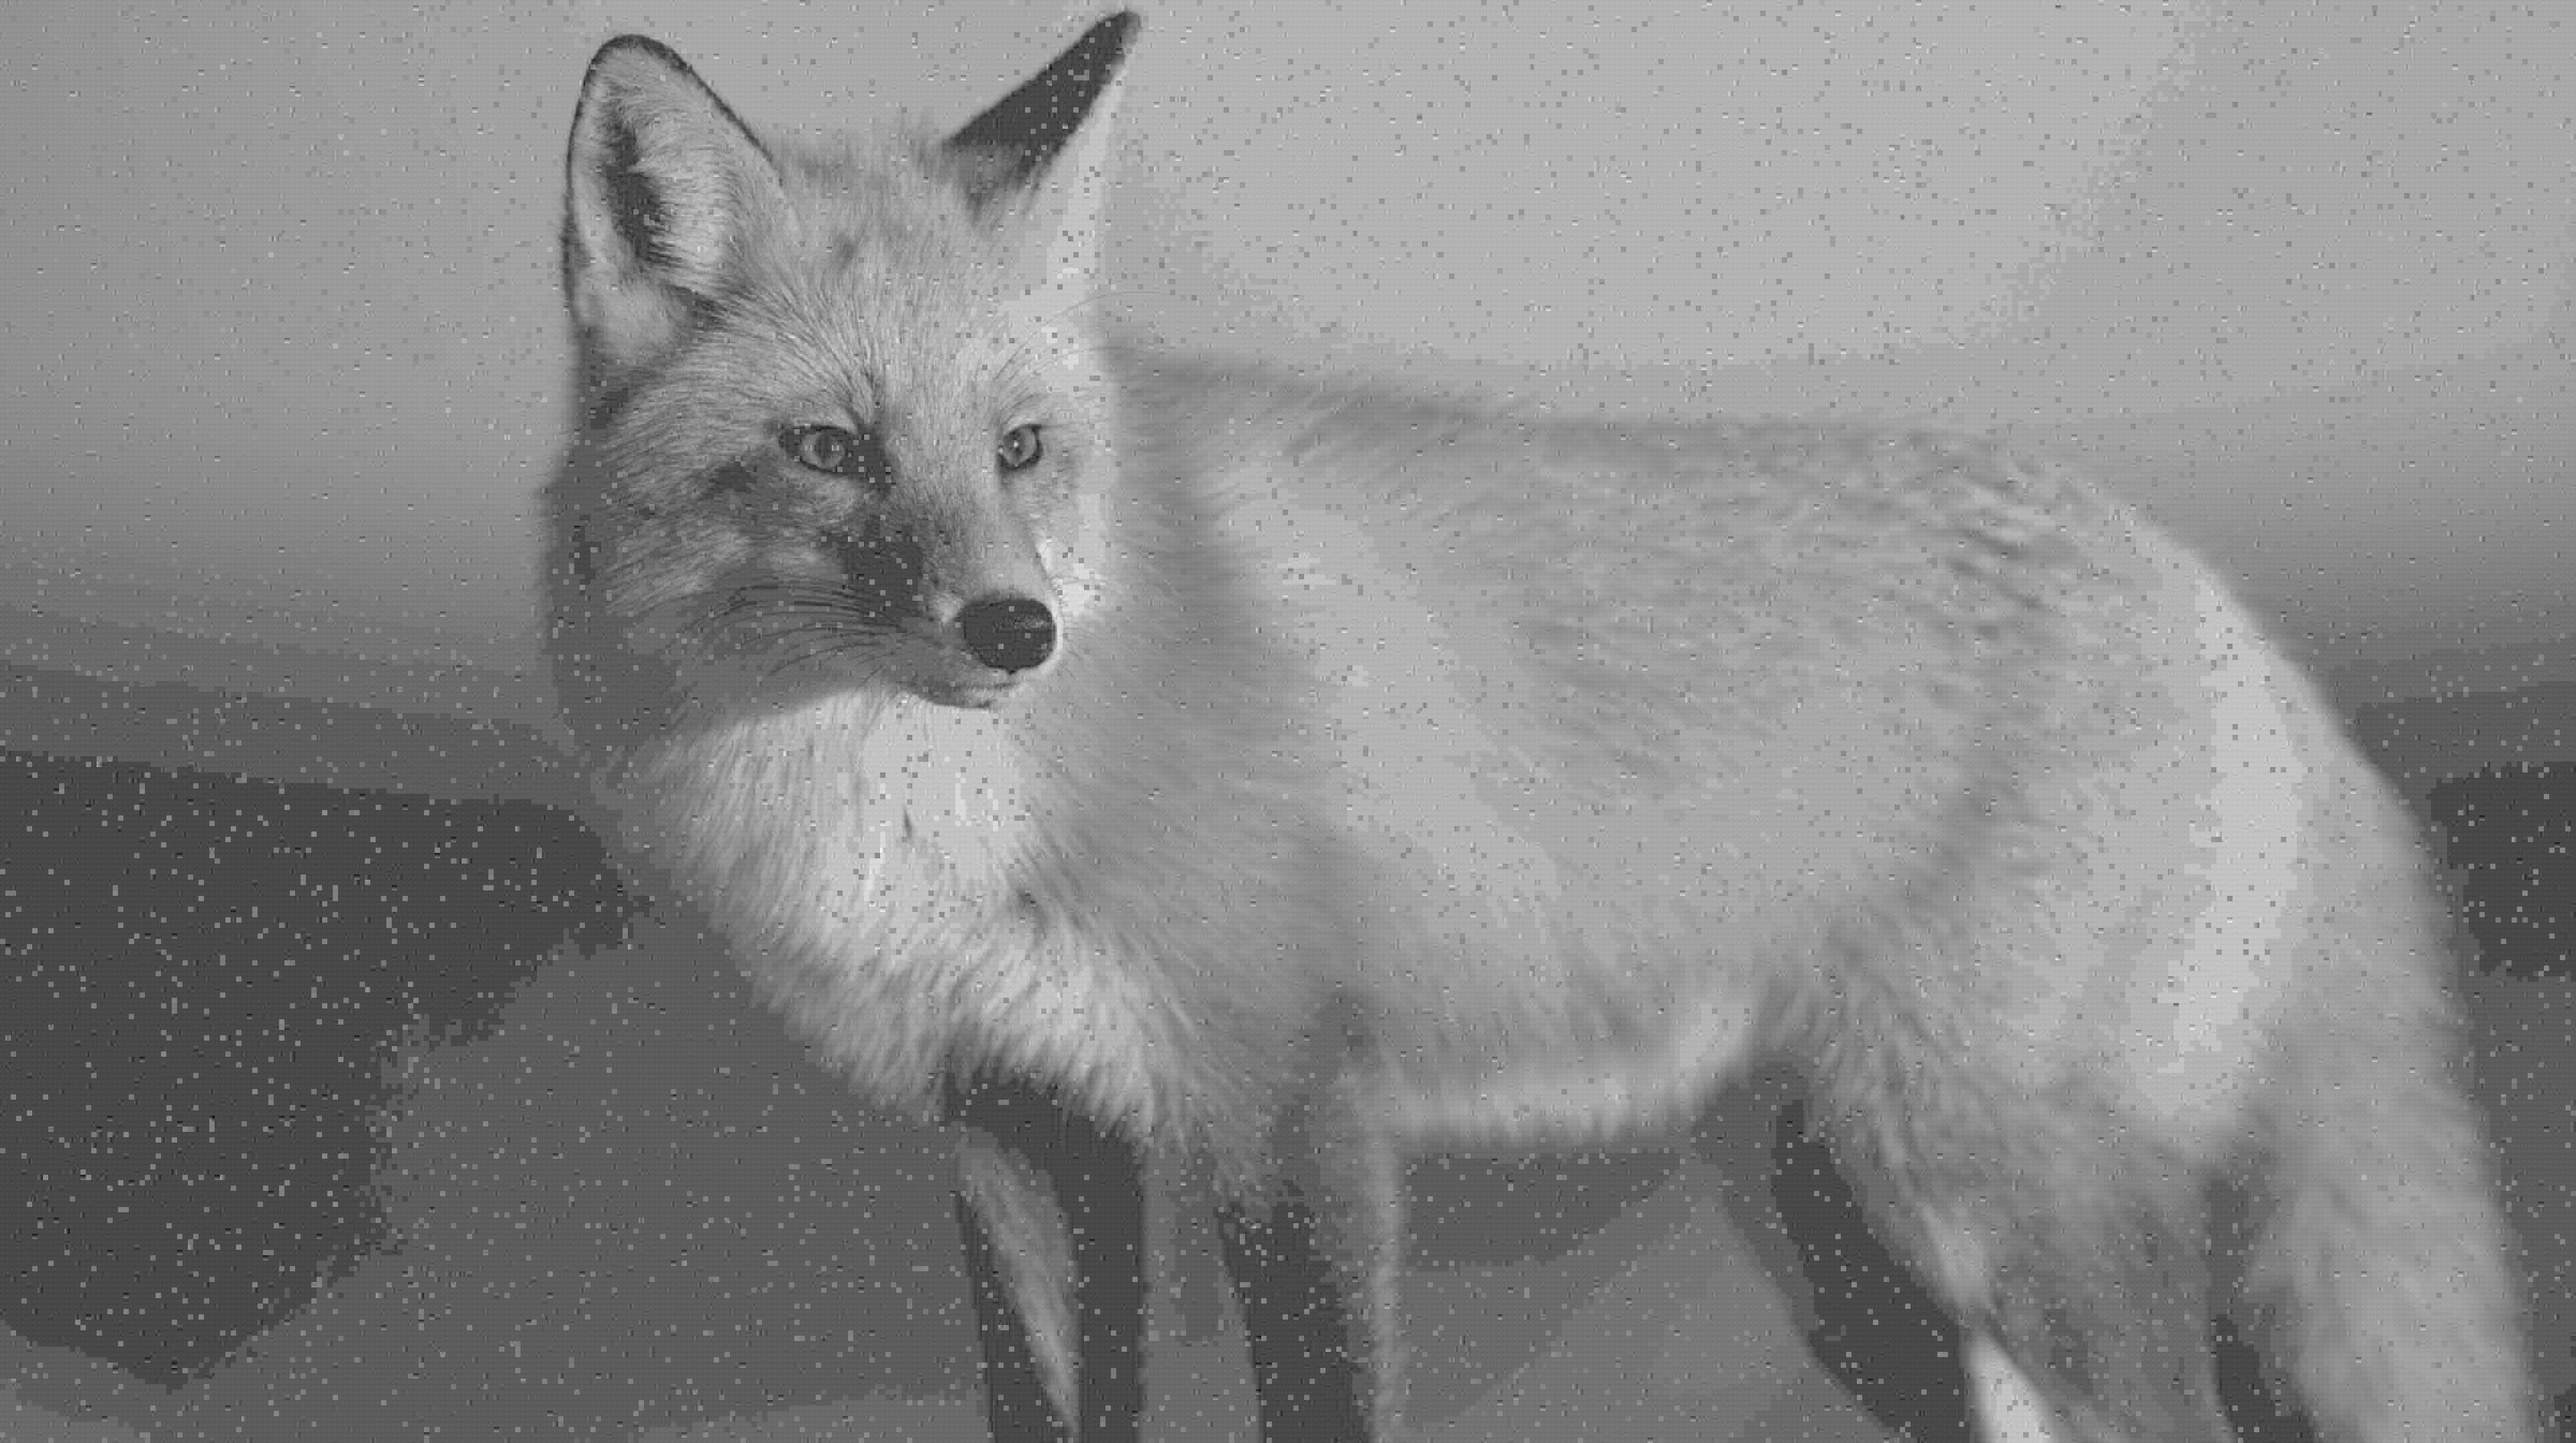
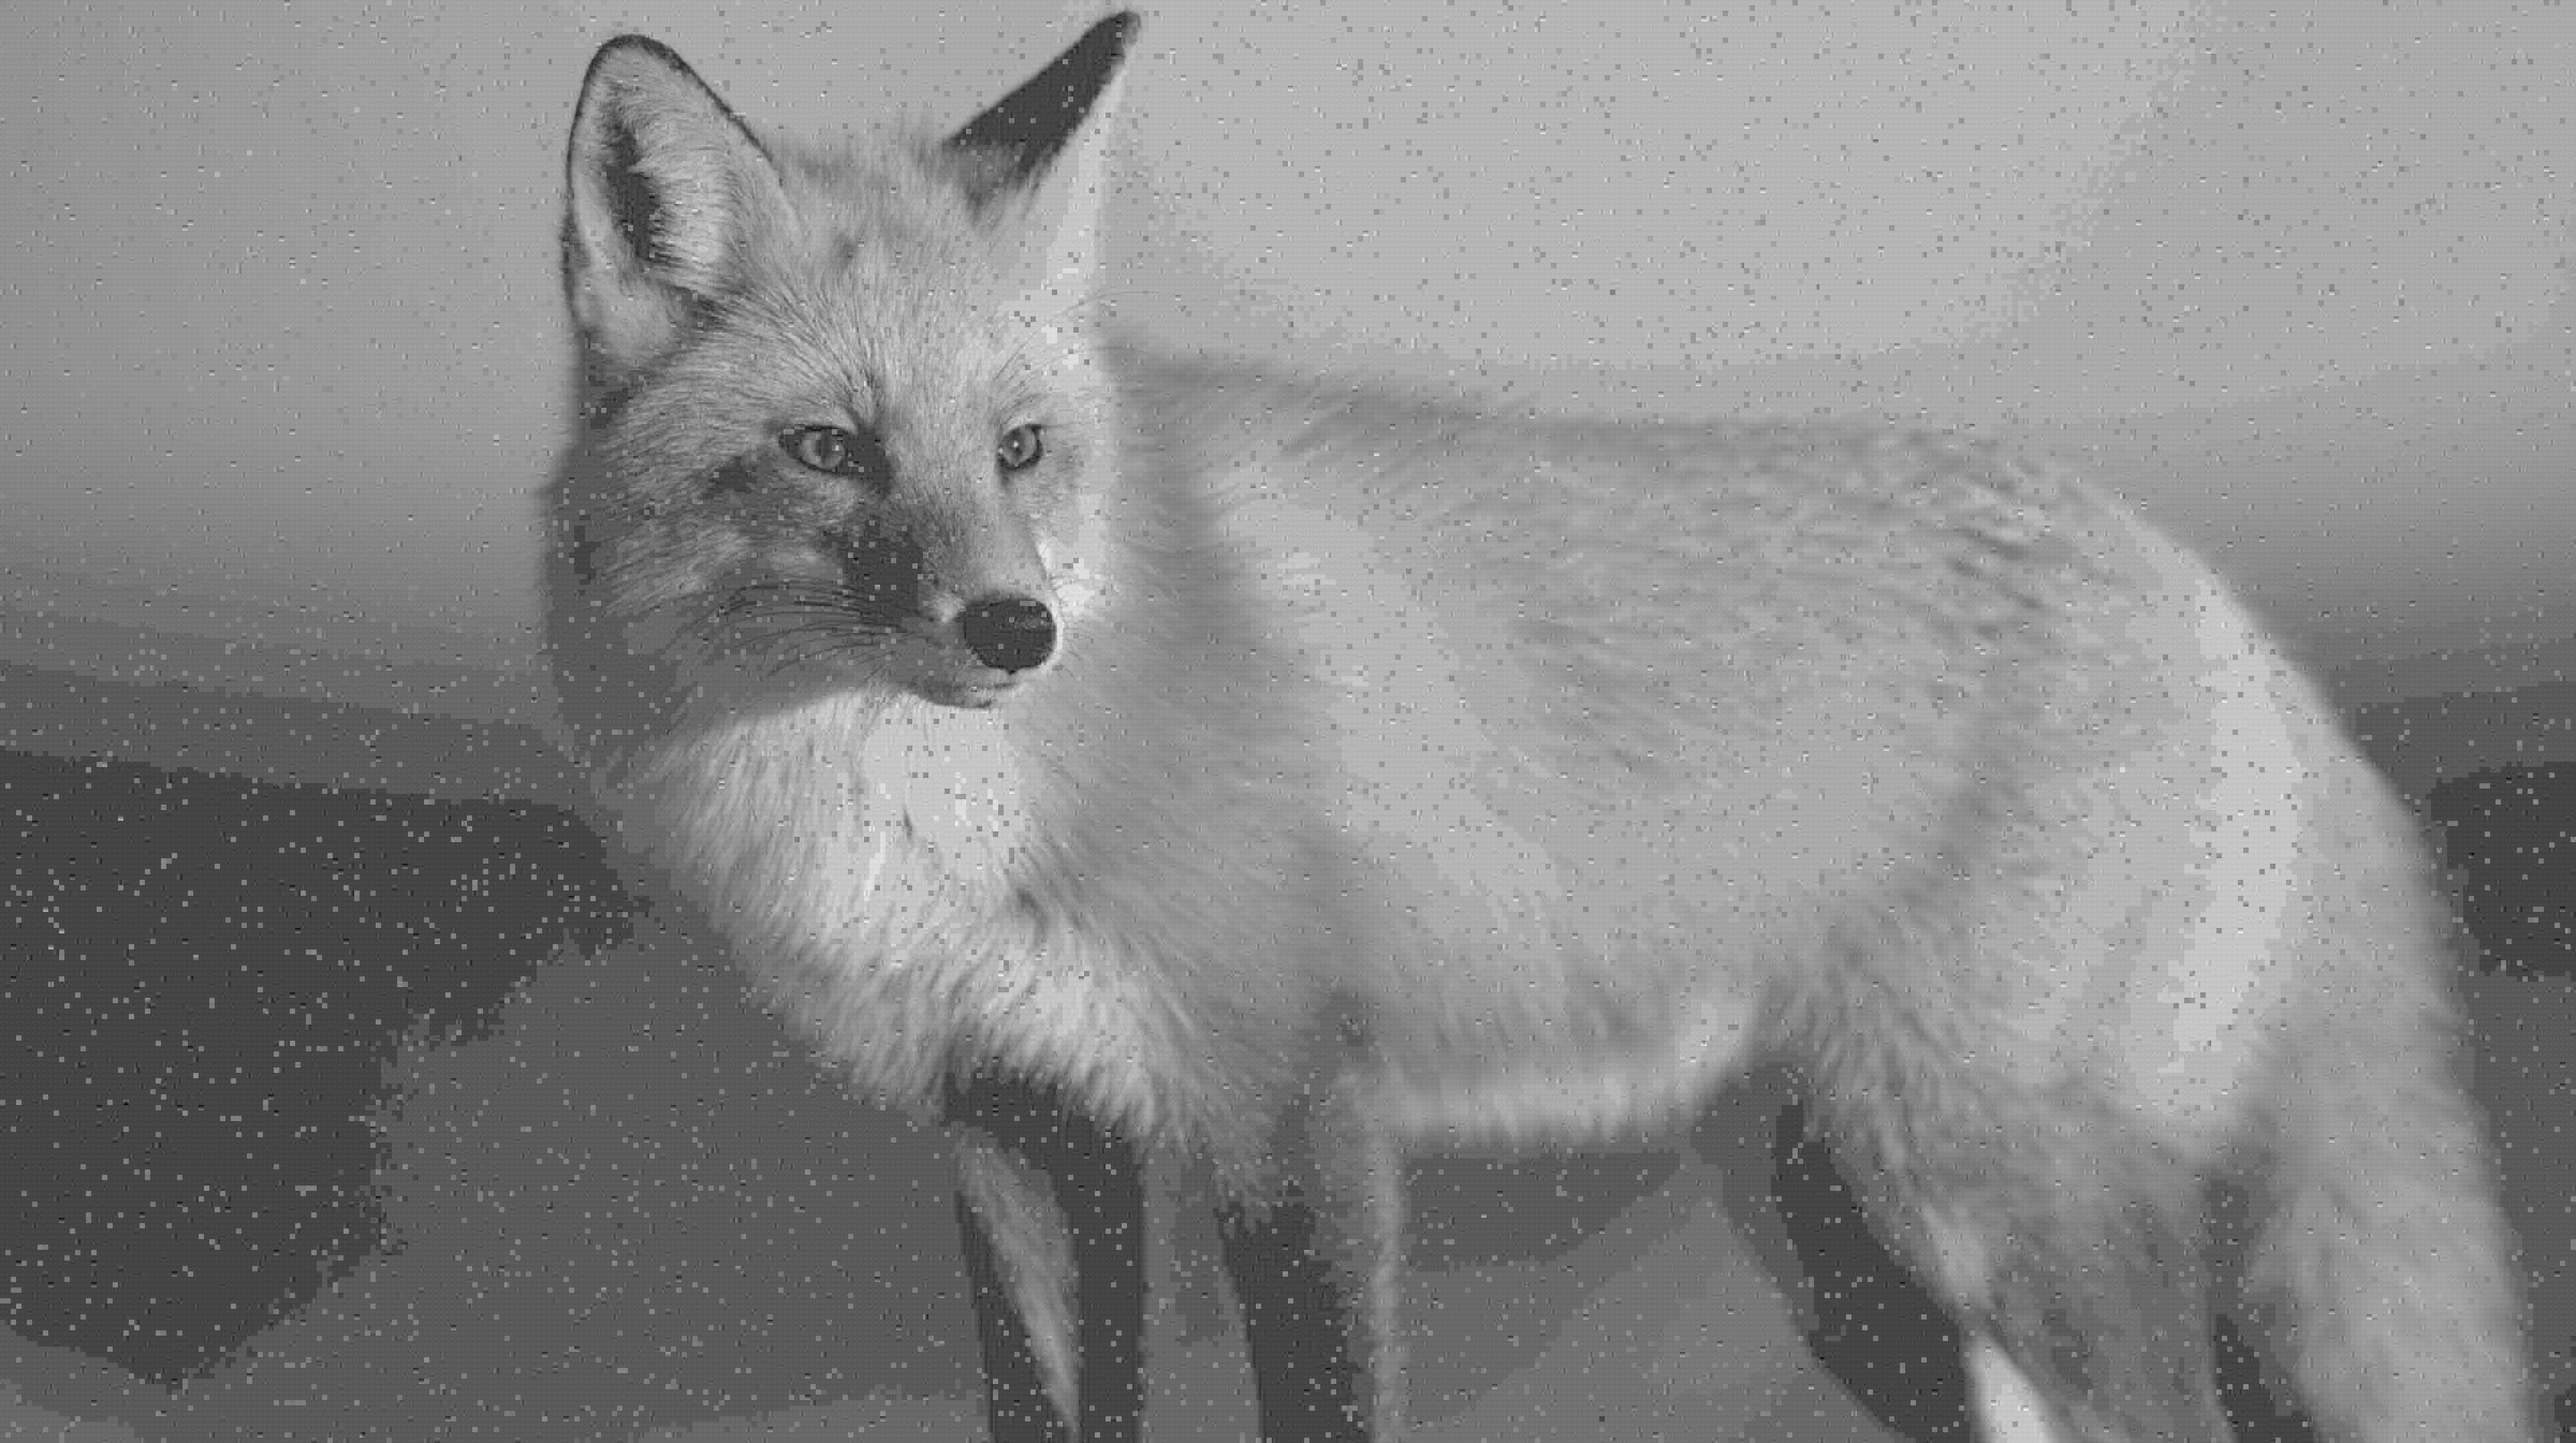
add 0.05 training files with global bit allocation tables

diff --git a/models/e005_b24.py b/models/e005_b24.py
@@ -1,0 +1,38 @@
+from image_quantizer import ImageQuantizer
+import math
+from channel_class import Channel
+import numpy as np
+import cv2
+import matplotlib.pyplot as plt
+import sys
+
+epsilon = 0.05
+bit_al_mat = np.matrix([[8,8,0,0,0,0,0,0],
+                        [8,0,0,0,0,0,0,0],
+                        [0,0,0,0,0,0,0,0],
+                        [0,0,0,0,0,0,0,0],
+                        [0,0,0,0,0,0,0,0],
+                        [0,0,0,0,0,0,0,0],
+                        [0,0,0,0,0,0,0,0],
+                        [0,0,0,0,0,0,0,0],
+                        ])
+
+img_quant = ImageQuantizer(bit_al_mat=bit_al_mat, epsilon=epsilon)
+img_quant.import_training_set('../data/org2/')
+img_quant.train()
+img_quant.save_model('./model_files/e005_b24', '')
+
+#img_quant.load_model('./model_files/e005_b24')
+img_quant.compute_encoder_mapping("./model_files/e005_b24")
+img_quant.load_encoder_mapping("./model_files/e005_b24.npy")
+
+image = cv2.imread('./original_fox.png')
+compressed_img = img_quant.compress_image(image)
+channel = Channel(epsilon, bit_al_mat)
+received_img = channel.send_image(compressed_img)
+uncompressed_img = img_quant.reconstruct_image(received_img)
+plt.imsave('./images/received_fox_24bit_e005.png', uncompressed_img, cmap='gray')
+
+psnr = 10*math.log(255**2 / img_quant.calc_distortion('./images/received_fox_24bit_e005.png', './original_fox.png'), 10)
+print("24 bit PSNR for epsilon {}:  {}".format(epsilon, psnr))
+

diff --git a/models/e005_b58.py b/models/e005_b58.py
@@ -1,0 +1,38 @@
+from image_quantizer import ImageQuantizer
+import math
+from channel_class import Channel
+import numpy as np
+import cv2
+import matplotlib.pyplot as plt
+import sys
+
+epsilon = 0.05
+bit_al_mat = np.matrix([[8,7,6,4,0,0,0,0],
+                        [7,6,5,0,0,0,0,0],
+                        [6,5,0,0,0,0,0,0],
+                        [4,0,0,0,0,0,0,0],
+                        [0,0,0,0,0,0,0,0],
+                        [0,0,0,0,0,0,0,0],
+                        [0,0,0,0,0,0,0,0],
+                        [0,0,0,0,0,0,0,0],
+                        ])
+
+img_quant = ImageQuantizer(bit_al_mat=bit_al_mat, epsilon=epsilon)
+img_quant.import_training_set('../data/org2/')
+img_quant.train()
+img_quant.save_model('./model_files/e005_b58', '')
+
+#img_quant.load_model('./model_files/e005_b58')
+img_quant.compute_encoder_mapping("./model_files/e005_b58")
+img_quant.load_encoder_mapping("./model_files/e005_b58.npy")
+
+image = cv2.imread('./original_fox.png')
+compressed_img = img_quant.compress_image(image)
+channel = Channel(epsilon, bit_al_mat)
+received_img = channel.send_image(compressed_img)
+uncompressed_img = img_quant.reconstruct_image(received_img)
+plt.imsave('./images/received_fox_58bit_e005.png', uncompressed_img, cmap='gray')
+
+psnr = 10*math.log(255**2 / img_quant.calc_distortion('./images/received_fox_58bit_e005.png', './original_fox.png'), 10)
+print("58 bit PSNR for epsilon {}:  {}".format(epsilon, psnr))
+

diff --git a/models/e005_b76.py b/models/e005_b76.py
@@ -1,0 +1,38 @@
+from image_quantizer import ImageQuantizer
+import math
+from channel_class import Channel
+import numpy as np
+import cv2
+import matplotlib.pyplot as plt
+import sys
+
+epsilon = 0.05
+bit_al_mat = np.matrix([[8,7,6,4,3,0,0,0],
+                        [7,6,5,4,0,0,0,0],
+                        [6,5,4,0,0,0,0,0],
+                        [4,4,0,0,0,0,0,0],
+                        [3,0,0,0,0,0,0,0],
+                        [0,0,0,0,0,0,0,0],
+                        [0,0,0,0,0,0,0,0],
+                        [0,0,0,0,0,0,0,0],
+                        ])
+
+img_quant = ImageQuantizer(bit_al_mat=bit_al_mat, epsilon=epsilon)
+img_quant.import_training_set('../data/org2/')
+img_quant.train()
+img_quant.save_model('./model_files/e005_b76', '')
+
+#img_quant.load_model('./model_files/e005_b76')
+img_quant.compute_encoder_mapping("./model_files/e005_b76")
+img_quant.load_encoder_mapping("./model_files/e005_b76.npy")
+
+image = cv2.imread('./original_fox.png')
+compressed_img = img_quant.compress_image(image)
+channel = Channel(epsilon, bit_al_mat)
+received_img = channel.send_image(compressed_img)
+uncompressed_img = img_quant.reconstruct_image(received_img)
+plt.imsave('./images/received_fox_76bit_e005.png', uncompressed_img, cmap='gray')
+
+psnr = 10*math.log(255**2 / img_quant.calc_distortion('./images/received_fox_76bit_e005.png', './original_fox.png'), 10)
+print("76 bit PSNR for epsilon {}:  {}".format(epsilon, psnr))
+

diff --git a/models/e0005_b24.py b/models/e0005_b24.py
@@ -18,12 +18,12 @@ bit_al_mat = np.matrix([[8,4,2,1,0,0,0,0],
                         ])
 
 img_quant = ImageQuantizer(bit_al_mat=bit_al_mat, epsilon=epsilon)
-img_quant.import_training_set('../data/org2/')
-img_quant.train()
-img_quant.save_model('./model_files/e0005_b24', '')
+#img_quant.import_training_set('../data/org2/')
+#img_quant.train()
+#img_quant.save_model('./model_files/e0005_b24', '')
 
-#img_quant.load_model('./model_files/e0005_b24')
-img_quant.compute_encoder_mapping("./model_files/e0005_b24")
+img_quant.load_model('./model_files/e0005_b24')
+#img_quant.compute_encoder_mapping("./model_files/e0005_b24")
 img_quant.load_encoder_mapping("./model_files/e0005_b24.npy")
 
 image = cv2.imread('./original_fox.png')

diff --git a/models/e0005_b58.py b/models/e0005_b58.py
@@ -18,12 +18,12 @@ bit_al_mat = np.matrix([[8,7,4,3,2,1,0,0],
                         ])
 
 img_quant = ImageQuantizer(bit_al_mat=bit_al_mat, epsilon=epsilon)
-img_quant.import_training_set('../data/org2/')
-img_quant.train()
-img_quant.save_model('./model_files/e0005_b58', '')
+#img_quant.import_training_set('../data/org2/')
+#img_quant.train()
+#img_quant.save_model('./model_files/e0005_b58', '')
 
-#img_quant.load_model('./model_files/e0005_b58')
-img_quant.compute_encoder_mapping("./model_files/e0005_b58")
+img_quant.load_model('./model_files/e0005_b58')
+#img_quant.compute_encoder_mapping("./model_files/e0005_b58")
 img_quant.load_encoder_mapping("./model_files/e0005_b58.npy")
 
 image = cv2.imread('./original_fox.png')

diff --git a/models/e0005_b76.py b/models/e0005_b76.py
@@ -18,12 +18,12 @@ bit_al_mat = np.matrix([[8,8,5,3,3,2,0,0],
                         ])
 
 img_quant = ImageQuantizer(bit_al_mat=bit_al_mat, epsilon=epsilon)
-img_quant.import_training_set('../data/org2/')
-img_quant.train()
-img_quant.save_model('./model_files/e0005_b76', '')
+#img_quant.import_training_set('../data/org2/')
+#img_quant.train()
+#img_quant.save_model('./model_files/e0005_b76', '')
 
-#img_quant.load_model('./model_files/e0005_b76')
-img_quant.compute_encoder_mapping("./model_files/e0005_b76")
+img_quant.load_model('./model_files/e0005_b76')
+#img_quant.compute_encoder_mapping("./model_files/e0005_b76")
 img_quant.load_encoder_mapping("./model_files/e0005_b76.npy")
 
 image = cv2.imread('./original_fox.png')
